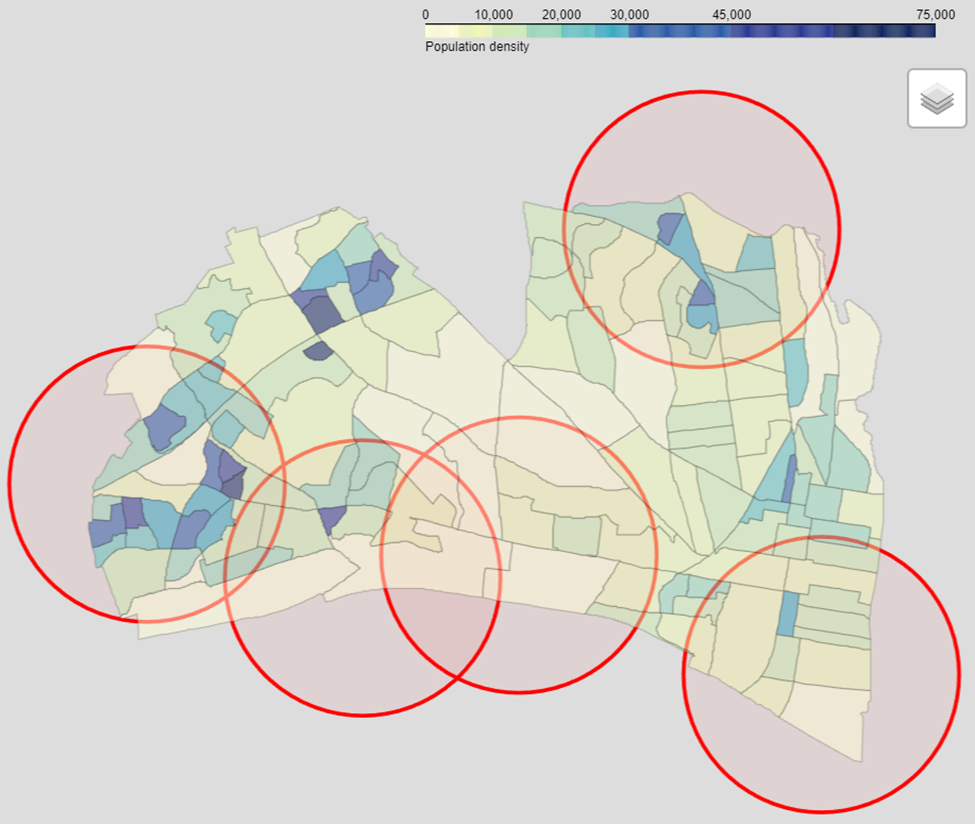
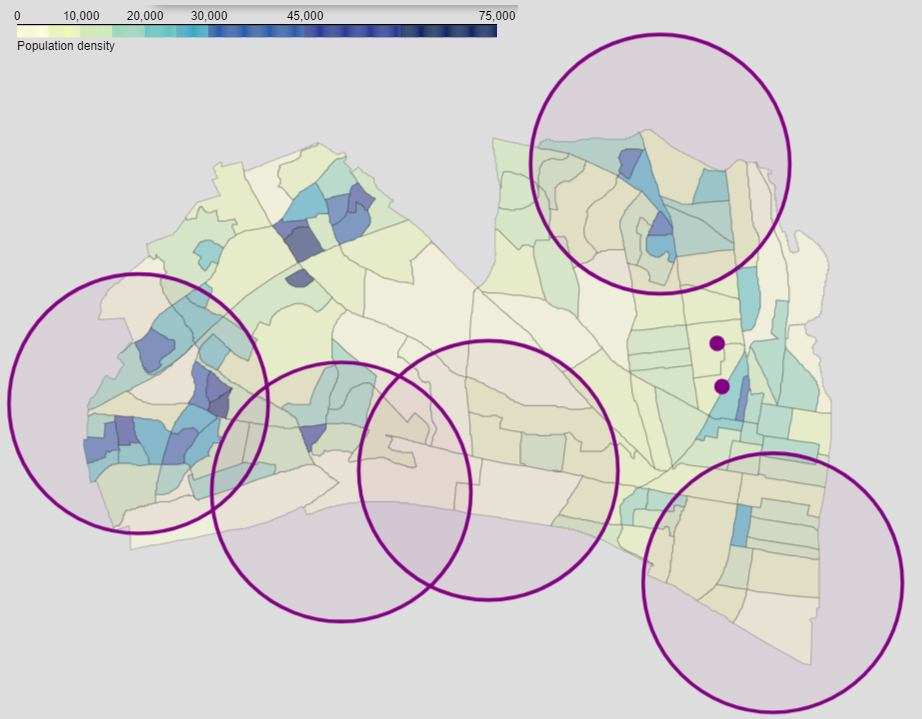
updating the map and the query

diff --git a/query.md b/query.md
@@ -2,11 +2,11 @@ We support separating glass from other recycling streams so Northern Virginia ca
 
 There may be an opportunity to make the program even more successful by increasing program visibility with signs directing users to drop offs from main streets and by bringing drop offs closer to specific neighborhoods including our own. Some of us find the existing locations so inconvenient that we cannot justify participating. Others stockpile glass for months until a trip takes us near a drop off and sometimes discard glass if our home storage fills up. Key goals of recycling include reducing carbon emissions and air pollution, so extra driving just to recycle detracts from the program's value and is hard for participants to justify.  
 
-The map below shows drop off locations, 1 mile rings around them, and population density.  An interactive version of this map is online at [alx-glass.github.io](https://alx-glass.github.io/).  It confirms our intuition that the city drop offs are not convenient to a number of heavily populated neighborhoods including Del Ray, Rosemont, North Old town and the Southern Towers. Adding more convenient drop off locations would increase our satisfaction and participation.
+The map below shows 1 mile rings around the drop off locations and population density.  An interactive version of this map is online at [alx-glass.github.io](https://alx-glass.github.io/).  It confirms our intuition that the city drop offs are not convenient to a number of heavily populated neighborhoods including Del Ray, Rosemont, North Old town and the Southern Towers. Adding more convenient drop off locations would increase our satisfaction and participation.
 
 ![Glass recycling map](glass_recycling_map.png)
 
-It might be possible to add a drop off on underused public or private asphalt that is far closer to Del Ray and North Old Town than any existing drop off, but far enough from any individual residence.  The Eugene Simpson Park parking lot seems attractive because it is far from homes, on and visible from a main street (Monroe Avenue), and close to shopping.  The last parking spaces on the east side of Main Line Boulevard before it dead ends between the Metro tracks and George Washington Middle School are less convenient, but are also an appropriately isolated option. 
+It might be possible to add a drop off on underused public or private asphalt that is far closer to Del Ray and North Old Town than any existing drop off, but far enough from any individual residence.  The Eugene Simpson Park parking lot seems attractive because it is far from homes, on and visible from a main street (Monroe Avenue), and close to shopping.  The last parking spaces on the east side of Main Line Boulevard before it dead ends between the Metro tracks and George Washington Middle School are less convenient, but are also an appropriately isolated option. Small purple circles mark these locations on the map.
 
 We would like to discuss the feasibility of incremental improvements to the program like 1) improving signage and 2) improving the convenience of drop off locations.
 
